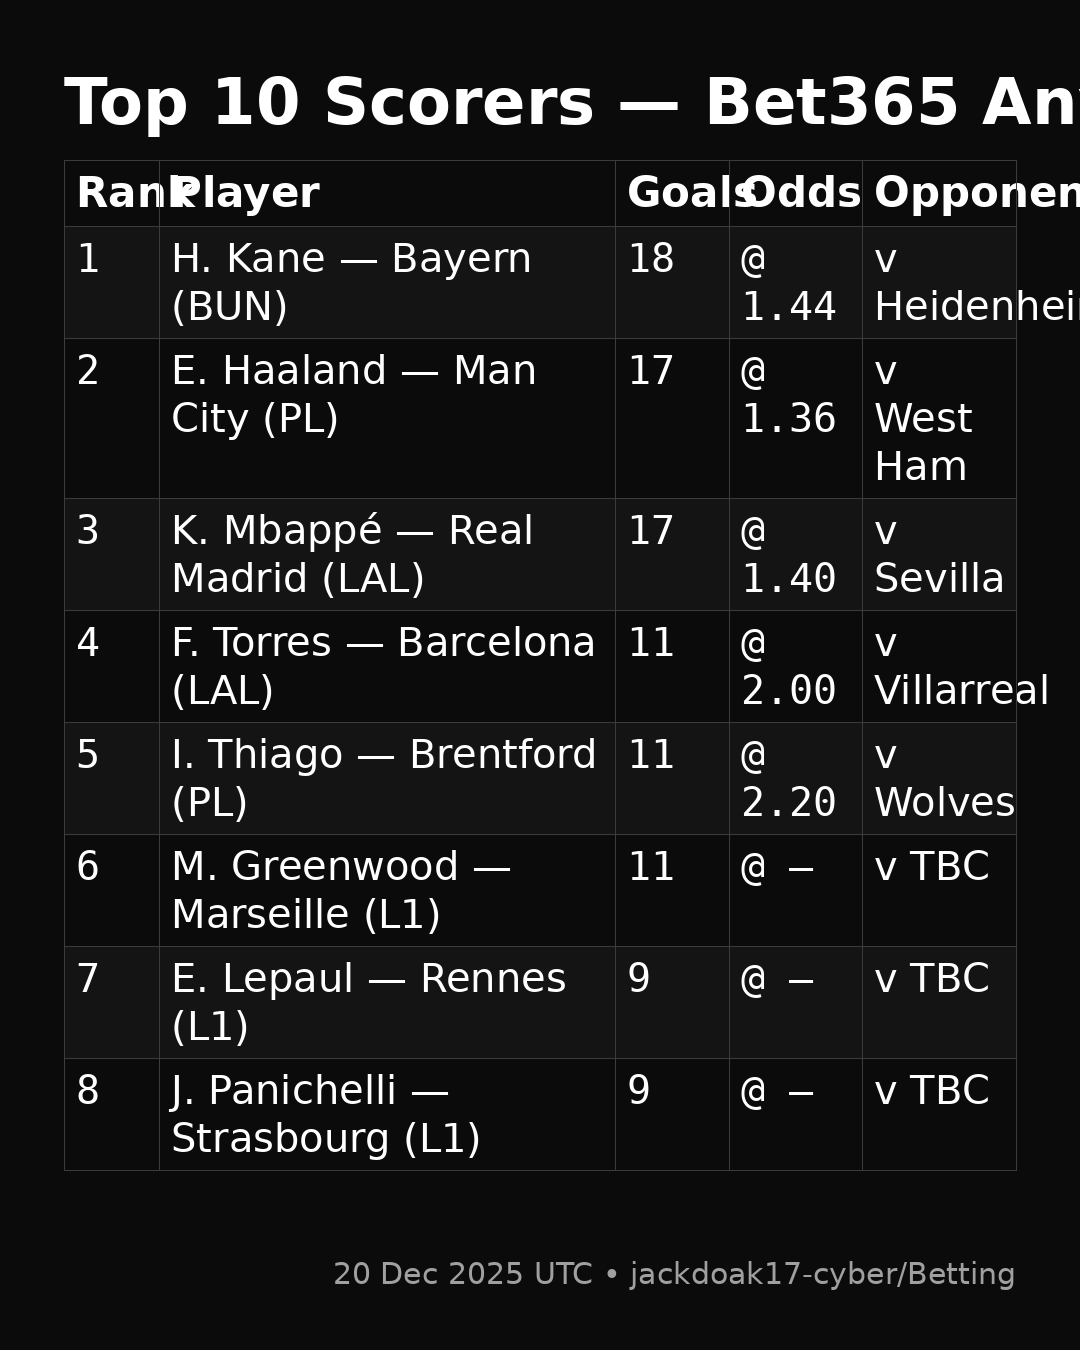
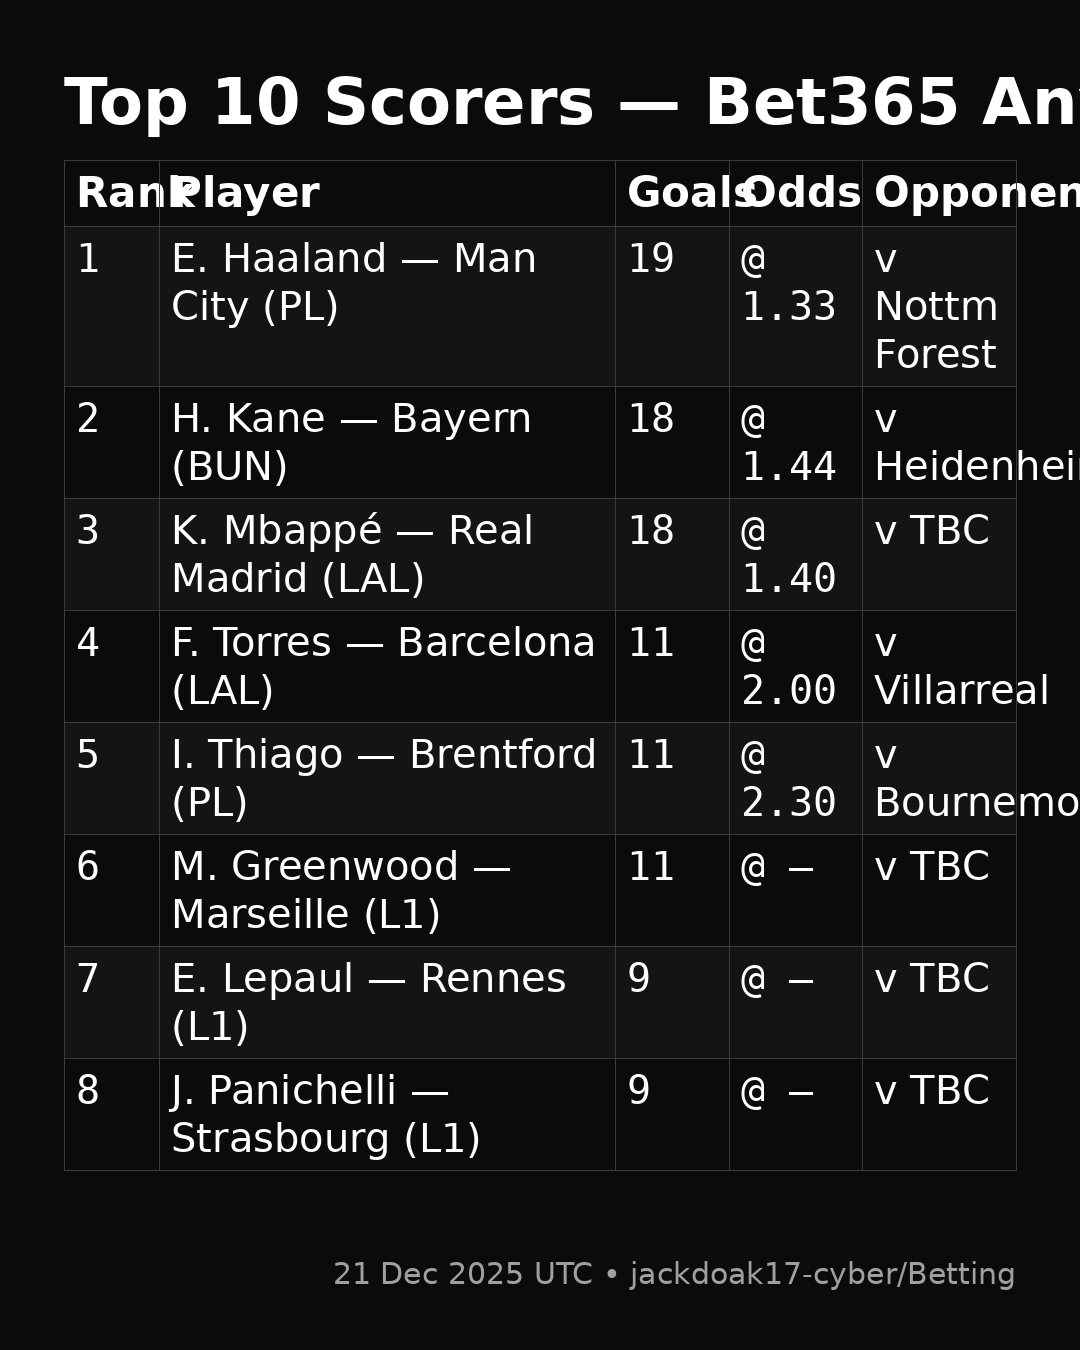
Update: Top 10 Scorers (Anytime) — 2025-12-21T07:26:33Z

diff --git a/posts/top10_scorers_anytime.md b/posts/top10_scorers_anytime.md
@@ -2,13 +2,13 @@ Top 10 Scorers — Bet365 Anytime
 
 | Rank | Player | Goals | Odds | Opponent |
 |:---:|:--|:---:|:---:|:--|
-| 1 | H. Kane — Bayern (BUN) | 18 | @ 1.44 | v Heidenheim |
-| 2 | E. Haaland — Man City (PL) | 17 | @ 1.36 | v West Ham |
-| 3 | K. Mbappé — Real Madrid (LAL) | 17 | @ 1.40 | v Sevilla |
+| 1 | E. Haaland — Man City (PL) | 19 | @ 1.33 | v Nottm Forest |
+| 2 | H. Kane — Bayern (BUN) | 18 | @ 1.44 | v Heidenheim |
+| 3 | K. Mbappé — Real Madrid (LAL) | 18 | @ 1.40 | v TBC |
 | 4 | F. Torres — Barcelona (LAL) | 11 | @ 2.00 | v Villarreal |
-| 5 | I. Thiago — Brentford (PL) | 11 | @ 2.20 | v Wolves |
+| 5 | I. Thiago — Brentford (PL) | 11 | @ 2.30 | v Bournemouth |
 | 6 | M. Greenwood — Marseille (L1) | 11 | @ — | v TBC |
 | 7 | E. Lepaul — Rennes (L1) | 9 | @ — | v TBC |
 | 8 | J. Panichelli — Strasbourg (L1) | 9 | @ — | v TBC |
-| 9 | V. Muriqi — Mallorca (LAL) | 9 | @ 3.50 | v TBC |
-| 10 | D. Undav — VfB Stuttgart (BUN) | 8 | @ 1.95 | v TSG Hoffenheim |
+| 9 | V. Muriqi — Mallorca (LAL) | 9 | @ — | v TBC |
+| 10 | A. Semenyo — Bournemouth (PL) | 8 | @ 3.10 | v Brentford |
